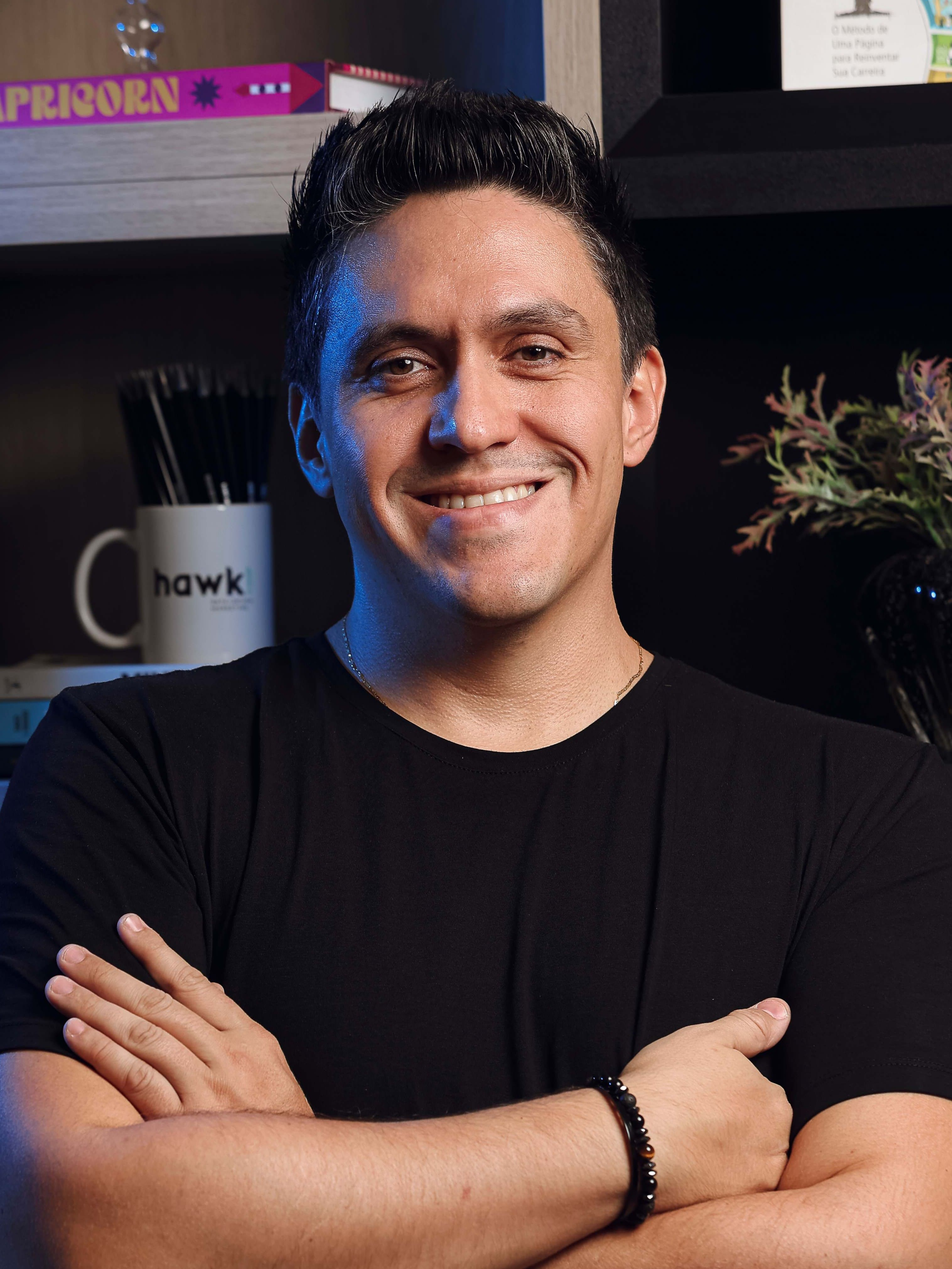
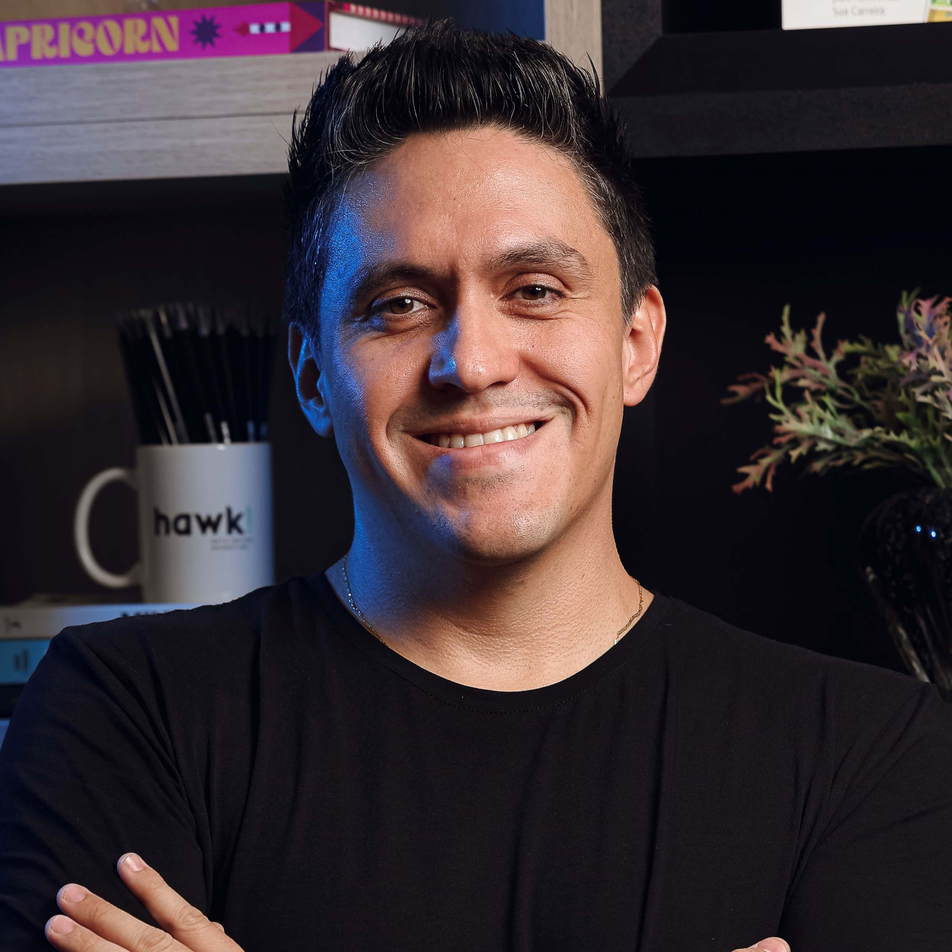
rhulian image updated 2

diff --git a/components/speakers-section.tsx b/components/speakers-section.tsx
@@ -15,8 +15,7 @@ export function SpeakersSection() {
       description:
         "Vai revelar como construir um funil previsível, medir os indicadores certos e gerar mais vendas com menos desperdício de leads.",
       icon: Target,
-      image:
-        "https://hebbkx1anhila5yf.public.blob.vercel-storage.com/Retratos%20Rhulian%20%20%2816%29-fygdbY11LINC7GLrZbux7bsBTzGXiM.jpg",
+      image: "/images/speaker-rhulian.jpg",
       color: "text-primary",
     },
     {
@@ -26,8 +25,7 @@ export function SpeakersSection() {
       description:
         "Vai mostrar como o empresário pode se posicionar como influenciador do próprio negócio, fortalecendo marca, autoridade e conexão com o público.",
       icon: Lightbulb,
-      image:
-        "https://hebbkx1anhila5yf.public.blob.vercel-storage.com/Gemini_Generated_Image_o9o2x7o9o2x7o9o2-Q6fFSyWVoZNy5NRcduQwrK8gv6EtDh.png",
+      image: "/images/speaker-mariana.png",
       color: "text-primary",
     },
   ]
@@ -60,7 +58,8 @@ export function SpeakersSection() {
                 <img
                   src={speaker.image || "/placeholder.svg"}
                   alt={speaker.name}
-                  className="w-full h-64 object-cover object-[50%_20%] rounded-xl"
+                  className="w-full max-w-md mx-auto rounded-xl"
+                  loading="lazy"
                 />
               </div>
 
